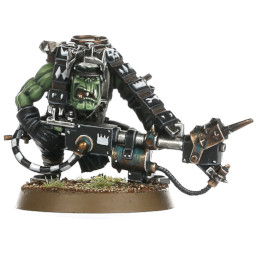
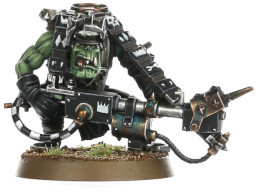
Do not force portraits to be square

diff --git a/src-angular/app/components/page-force-details/force-details.component.css b/src-angular/app/components/page-force-details/force-details.component.css
@@ -65,7 +65,10 @@
 }
 .model-selection .model-image-box {
     position: absolute;
+    height: 24px;
     width: 24px;
+    object-fit: contain;
+    background: white;
 }
 .model-selection .model-image {
     height: 24px; margin-left: auto; margin-right: auto; display: block;

diff --git a/src-angular/app/components/page-force-details/model-list-item/model-list-item.component.css b/src-angular/app/components/page-force-details/model-list-item/model-list-item.component.css
@@ -11,7 +11,10 @@
     padding: 4px;
 }
 .model-image img {
-    height: 48px; 
+    height: 48px;
+    width: 48px;
+    object-fit: contain; 
+    background: white;
     margin-left: auto; 
     margin-right: auto; 
     display: block;

diff --git a/src-angular/app/components/view-model/header-details/header-details.component.css b/src-angular/app/components/view-model/header-details/header-details.component.css
@@ -5,6 +5,9 @@
 }
 .model-image-box  img {
     height: 120px;
+    width: 120px;
+    object-fit: contain;
+    background: white;
 }
 .model-text-box {
     position: relative;
